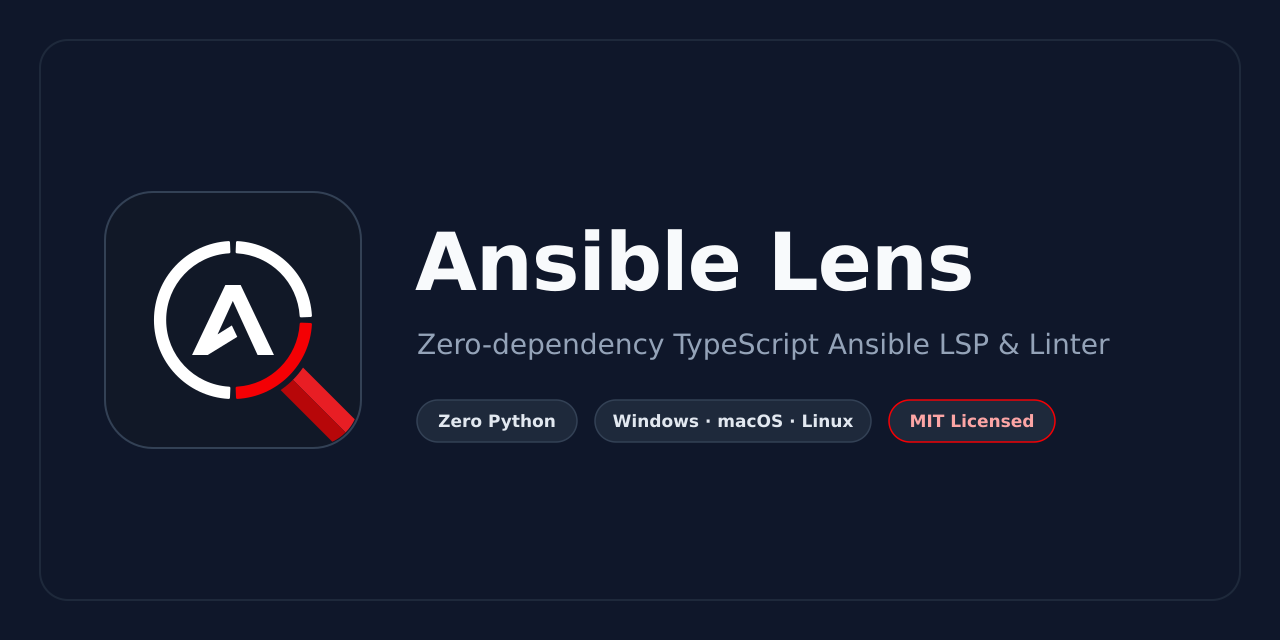
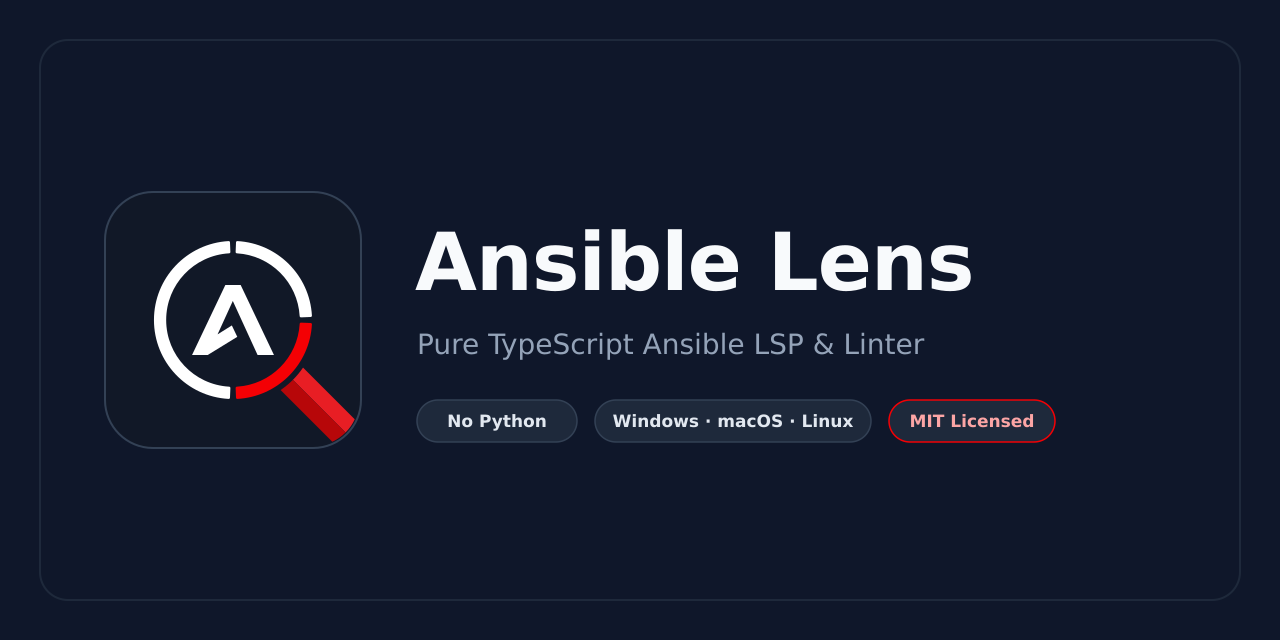
docs(readme): add Open VSX badge and replace 'zero' with 'no' (#61)
* docs(readme): add Open VSX badge

* docs(readme): replace 'zero' with 'no' across docs, manifests, and social preview

Changed region(s): [[0.3125, 0.5, 0.875, 0.5625], [0.3438, 0.625, 0.4375, 0.6875]]

diff --git a/packages/client/test/client.test.ts b/packages/client/test/client.test.ts
@@ -124,7 +124,7 @@ describe('Ansible Lens VS Code Client — Smart Hybrid Activation, Grammar, Logg
     };
 
     expect(pkgJson.description).toBe(
-      'Fast Ansible language server, IntelliSense, and <20ms linter for YAML & Jinja2. Zero Python, WSL, or Docker.',
+      'Fast Ansible language server, IntelliSense, and <20ms linter for YAML & Jinja2. No Python, WSL, or Docker.',
     );
     const readmeText = fs.readFileSync(path.join(CLIENT_ROOT, 'README.md'), 'utf8');
     expect(readmeText).toContain('Ansible® is a registered trademark of Red Hat, Inc.');

diff --git a/README.md b/README.md
@@ -1,16 +1,17 @@
 # Ansible Lens
 
 [![VS Code Marketplace](https://vsmarketplacebadges.dev/version-short/amr-io.ansible-lens.svg?label=VS%20Code%20Marketplace)](https://marketplace.visualstudio.com/items?itemName=amr-io.ansible-lens)
+[![Open VSX](https://img.shields.io/open-vsx/v/amr-io/ansible-lens?label=Open%20VSX)](https://open-vsx.org/extension/amr-io/ansible-lens)
 [![OpenSSF Scorecard](https://api.scorecard.dev/projects/github.com/amr-io/ansible-lens/badge)](https://scorecard.dev/viewer/?uri=github.com/amr-io/ansible-lens)
 [![License: MIT](https://img.shields.io/badge/License-MIT-blue.svg)](./LICENSE)
 
-**Fast Ansible language server, IntelliSense, and <20ms linter for YAML & Jinja2 — zero Python, WSL, or Docker required.**
+**Fast Ansible language server, IntelliSense, and <20ms linter for YAML & Jinja2 — no Python, WSL, or Docker required.**
 
 ---
 
 ## Why Ansible Lens?
 
-Editing Ansible playbooks shouldn't require installing Python virtual environments, WSL2, or Docker containers just to get hover docs, autocomplete, and linting. **Ansible Lens** is a pure TypeScript, zero-dependency Language Server & VS Code extension powered by pre-compiled static collection metadata packs. It works identically out of the box on **Windows, macOS, and Linux** in milliseconds.
+Editing Ansible playbooks shouldn't require installing Python virtual environments, WSL2, or Docker containers just to get hover docs, autocomplete, and linting. **Ansible Lens** is a pure TypeScript Language Server & VS Code extension powered by pre-compiled static collection metadata packs. It works identically out of the box on **Windows, macOS, and Linux** in milliseconds.
 
 ---
 
@@ -29,9 +30,9 @@ Editing Ansible playbooks shouldn't require installing Python virtual environmen
 
 ## Key Features
 
-- **Zero Python, WSL, or Docker:** Runs natively in pure Node.js/TypeScript on Windows, macOS, and Linux. Never spawns `ansible-playbook` or `ansible-lint` subprocesses while you type.
+- **No Python, WSL, or Docker:** Runs natively in pure Node.js/TypeScript on Windows, macOS, and Linux. Never spawns `ansible-playbook` or `ansible-lint` subprocesses while you type.
 - **Instant (<20ms) Fault-Tolerant Linting:** Concrete Syntax Tree (CST) YAML + Jinja2 scanner with 24 clean-room MIT-licensed rules, 1-click Quick-Fixes (`Convert File to FQCN`, Levenshtein *"Did you mean?"*, `var-naming[no-role-prefix]`), and debounced incremental revalidation.
-- **Pylance-Style Hover & `Ctrl+Click` Module Docs:** Rich Markdown hover cards with parameter tables, defaults, `choices`, and return schemas — plus configurable `Ctrl+Click` (`renderedPreview`, `openInBrowser`, or `disabled`) with zero permanent underlines.
+- **Pylance-Style Hover & `Ctrl+Click` Module Docs:** Rich Markdown hover cards with parameter tables, defaults, `choices`, and return schemas — plus configurable `Ctrl+Click` (`renderedPreview`, `openInBrowser`, or `disabled`) with no permanent underlines.
 - **`register:` Return-Value Type Inference (`loop:`-Aware):** Autocompletes registered fields (e.g. `webapp_version_file.stat.exists`, `.rc`, `.stdout`, and `.results[].*` when `loop:` is used) across tasks, multi-line `when:` lists, and `.j2` templates.
 - **22-Level Cross-File Variable Intelligence & `.j2` Templates:** Tracks `defaults/`, `vars/`, `group_vars/`, `host_vars/`, relative `vars_files:` (with `missing-vars-file` validation & cache eviction), `include_vars:`, inventory, `set_fact:`, and `register:`, with scoped completion ranking (`0_` role-local → `1_` shared → `2_` other roles → `3_` magic vars) and smart `{{ | }}` auto-spacing.
 - **Nested Monorepo `ansible.cfg` Discovery & Project Integrity:** Walks upward to locate `ansible.cfg` (`roles_path`, `inventory`), validates missing roles/handlers/templates/`vars_files`, and prefers same-role handlers on `notify:` Go-to-Definition.
@@ -45,14 +46,14 @@ Editing Ansible playbooks shouldn't require installing Python virtual environmen
 | Feature | **Ansible Lens** (`amr-io.ansible-lens`) | **Red Hat Ansible** (`redhat.ansible`) |
 | :--- | :--- | :--- |
 | **Native Windows support (no WSL/Docker)** | **Yes — 100% native** | Requires WSL or Execution Environment container |
-| **Python / `ansible-core` / `ansible-lint` required** | **Zero** | Required for linting & full module docs |
+| **Python / `ansible-core` / `ansible-lint` required** | **No** | Required for linting & full module docs |
 | **Lint latency (300-line playbook)** | **~10.7 ms** (in-process) | ~2,622 ms (Python `ansible-lint` subprocess) |
 | **Smart `redhat.vscode-yaml` coexistence** | **Yes** (auto-detects Ansible vs. K8s/GHA/Compose) | Requires changing language mode to `ansible` |
 | **`register:` return-value autocomplete** | **Yes** (`loop:`-aware & nested `.stat.*`) | Limited |
 | **22-level variable precedence hover** | **Yes** | No |
 | **`.j2` template IntelliSense & `{{ \| }}` auto-space** | **Yes** | Limited |
 | **License** | **MIT** (clean-room TypeScript) | GPL-3.0 (`ansible-lint` / `ansible-core`) |
-| **Telemetry** | **Zero telemetry** | Optional Red Hat telemetry |
+| **Telemetry** | **No telemetry** | Optional Red Hat telemetry |
 
 ---
 
@@ -65,7 +66,7 @@ Measured on GitHub Actions `ubuntu-latest` (4 vCPU AMD EPYC 9V45, 15.6 GB RAM, N
 | **Ansible Lens** (in-process LSP) | Pure TypeScript / Node.js | **10.73 ms** | `9.11, 16.38, 10.73, 11.81, 6.47 ms` |
 | **ansible-lint** (CLI) | Python | **2,622.4 ms** | `3090.0, 2606.4, 2862.1, 2576.5, 2622.4 ms` |
 
-**Result:** **~244× faster** median analysis time with zero Python subprocess overhead.
+**Result:** **~244× faster** median analysis time with no Python subprocess overhead.
 
 ---
 
@@ -79,7 +80,7 @@ Search **`Ansible Lens`** (`amr-io.ansible-lens`) in the VS Code Extensions view
 code --install-extension amr-io.ansible-lens
 ```
 
-Open any Ansible playbook, role, or `.j2` template — Ansible Lens activates automatically with zero configuration.
+Open any Ansible playbook, role, or `.j2` template — Ansible Lens activates automatically with no configuration.
 
 ### Offline / Verifiable `.vsix` Install
 
@@ -103,7 +104,7 @@ Open any Ansible playbook, role, or `.j2` template — Ansible Lens activates au
 
 ## Privacy & Supply-Chain Security
 
-- **Zero Telemetry:** Ansible Lens collects zero analytics, zero crash reports, and makes no outbound network requests other than optional SHA-256-verified collection metadata pack downloads (configurable or disableable via `ansibleLens.metadata.autoDownload`).
+- **No Telemetry:** Ansible Lens collects no analytics, no crash reports, and makes no outbound network requests other than optional SHA-256-verified collection metadata pack downloads (configurable or disableable via `ansibleLens.metadata.autoDownload`).
 - **Verifiable Releases:** Every GitHub Release ships with a CycloneDX SBOM (`sbom.cdx.json`), `SHA256SUMS.txt`, and GitHub SLSA Build Provenance attestation.
 
 ---

diff --git a/packages/client/README.md b/packages/client/README.md
@@ -1,14 +1,15 @@
 # Ansible Lens
 
 [![VS Code Marketplace](https://vsmarketplacebadges.dev/version-short/amr-io.ansible-lens.svg?label=VS%20Code%20Marketplace)](https://marketplace.visualstudio.com/items?itemName=amr-io.ansible-lens)
+[![Open VSX](https://img.shields.io/open-vsx/v/amr-io/ansible-lens?label=Open%20VSX)](https://open-vsx.org/extension/amr-io/ansible-lens)
 [![OpenSSF Scorecard](https://api.scorecard.dev/projects/github.com/amr-io/ansible-lens/badge)](https://scorecard.dev/viewer/?uri=github.com/amr-io/ansible-lens)
 [![License: MIT](https://img.shields.io/badge/License-MIT-blue.svg)](./LICENSE)
 
-**Fast Ansible language server, IntelliSense, and <20ms linter for YAML & Jinja2 — zero Python, WSL, or Docker required.**
+**Fast Ansible language server, IntelliSense, and <20ms linter for YAML & Jinja2 — no Python, WSL, or Docker required.**
 
 ## Why Ansible Lens?
 
-**Ansible Lens** is a pure TypeScript, zero-dependency Ansible Language Server & linter powered by static collection metadata packs. It runs natively on **Windows, macOS, and Linux** with zero Python, zero WSL, and zero Docker.
+**Ansible Lens** is a pure TypeScript Ansible Language Server & linter powered by static collection metadata packs. It runs natively on **Windows, macOS, and Linux** with no Python, WSL, or Docker required.
 
 ## See It in Action
 
@@ -24,7 +25,7 @@
 ## Key Features
 
 - **Sub-20ms Fault-Tolerant Linting:** 24 clean-room MIT-licensed rules with 1-click Quick-Fixes (`Convert File to FQCN`, Levenshtein *"Did you mean?"*, `var-naming[no-role-prefix]`) and debounced incremental revalidation.
-- **Pylance-Style Hover & `Ctrl+Click` Docs:** Rich Markdown hover cards with parameter tables, defaults, `choices`, and return schemas, plus configurable `Ctrl+Click` (`renderedPreview`, `openInBrowser`, `disabled`) with zero permanent underlines.
+- **Pylance-Style Hover & `Ctrl+Click` Docs:** Rich Markdown hover cards with parameter tables, defaults, `choices`, and return schemas, plus configurable `Ctrl+Click` (`renderedPreview`, `openInBrowser`, `disabled`) with no permanent underlines.
 - **`register:` Return-Value Inference (`loop:`-Aware):** Autocompletes registered fields (`.stat.*`, `.rc`, `.stdout`, `.results[].*`) across tasks, multi-line `when:` lists, and `.j2` templates.
 - **22-Level Cross-File Variable Intelligence & `.j2` Templates:** Tracks `defaults/`, `vars/`, `group_vars/`, `host_vars/`, relative `vars_files:` (with `missing-vars-file` validation & cache eviction), `include_vars:`, inventory, `set_fact:`, and `register:`, with scoped completion ranking and smart `{{ | }}` auto-spacing.
 - **Smart Hybrid Activation:** Coexists cleanly with `redhat.vscode-yaml` while ignoring Kubernetes, Docker Compose, and GitHub Actions YAML.
@@ -35,7 +36,7 @@
 | Feature | **Ansible Lens** | **Red Hat Ansible** |
 | :--- | :--- | :--- |
 | **Native Windows (no WSL/Docker)** | **Yes** | Requires WSL or EE container |
-| **Python / `ansible-lint` required** | **Zero** | Required |
+| **Python / `ansible-lint` required** | **No** | Required |
 | **Lint latency (300-line playbook)** | **~10.7 ms** | ~2,622 ms |
 | **`register:` return-value autocomplete** | **Yes** (`loop:`-aware) | Limited |
 | **22-level variable precedence hover** | **Yes** | No |
@@ -68,7 +69,7 @@ For offline or SLSA-verified `.vsix` installs, download the release artifacts fr
 
 ## Privacy
 
-**Zero Telemetry:** Ansible Lens collects zero analytics or crash reports and makes no outbound requests other than optional SHA-256-verified collection metadata pack downloads.
+**No Telemetry:** Ansible Lens collects no analytics or crash reports and makes no outbound requests other than optional SHA-256-verified collection metadata pack downloads.
 
 ## License
 

diff --git a/CONTRIBUTING.md b/CONTRIBUTING.md
@@ -15,7 +15,7 @@ packages/client  ->  packages/server  ->  packages/core
 scripts/metadata-builder  ->  packages/core
 ```
 
-- `packages/core`: Pure TypeScript domain engine (**ZERO `vscode` or `vscode-languageserver*` imports**). All filesystem, network, clock, and cache I/O must be injected via interfaces so core logic remains 100% deterministic offline.
+- `packages/core`: Pure TypeScript domain engine (**NO `vscode` or `vscode-languageserver*` imports**). All filesystem, network, clock, and cache I/O must be injected via interfaces so core logic remains 100% deterministic offline.
 - `packages/server`: LSP server (`vscode-languageserver`) wrapping `@ansible-lens/core`.
 - `packages/client`: Thin VS Code extension client (`Smart Hybrid Activation` + Jinja2 injection grammar).
 - `scripts/metadata-builder`: Build-time metadata pack generator (`ansible-doc --metadata-dump`).
@@ -66,10 +66,10 @@ Keep commits **atomic**: each commit should be focused, buildable, and pass `npm
 ## 3. Code Quality, Coverage & Performance Budgets
 
 - **Strict TypeScript (`tsconfig.base.json`):** `strict: true`, `noUncheckedIndexedAccess: true`, `exactOptionalPropertyTypes: true`, `noImplicitOverride: true`, `noFallthroughCasesInSwitch: true`, `noUnusedLocals: true`, `noUnusedParameters: true`.
-- **Zero `any` & Zero Silent Catches:** ESLint enforces `@typescript-eslint/no-explicit-any: error`, `no-empty: error` (no empty `catch {}`), and `--max-warnings=0`. Do not use `@ts-ignore` or `@ts-expect-error` without an explicit inline justification.
+- **No `any` & No Silent Catches:** ESLint enforces `@typescript-eslint/no-explicit-any: error`, `no-empty: error` (no empty `catch {}`), and `--max-warnings=0`. Do not use `@ts-ignore` or `@ts-expect-error` without an explicit inline justification.
 - **Line Endings:** LF (`\n`) is enforced via `.editorconfig` and `.gitattributes` (`* text=auto eol=lf`).
 - **Test Coverage (`>= 80%`):** `packages/core` must maintain **at least 80% line, branch, function, and statement coverage** under `vitest run --coverage`. Include positive, negative, Windows CRLF path, Unicode, fuzz/resilience, and LSP integration tests where applicable.
-- **Performance Budget (`< 20ms`):** Zero Python, WSL, Docker, or external subprocesses during editing. Parsing and linting a 300-line playbook must complete in **< 20ms** in the automated benchmark suite.
+- **Performance Budget (`< 20ms`):** No Python, WSL, Docker, or external subprocesses during editing. Parsing and linting a 300-line playbook must complete in **< 20ms** in the automated benchmark suite.
 
 ---
 
@@ -89,7 +89,7 @@ Ansible Lens is licensed under the **MIT License**.
 Every PR must use `.github/PULL_REQUEST_TEMPLATE.md`, link a GitHub Issue (`Closes #N`), include local verification output, and pass all CI checks:
 
 - [ ] Conventional Commits (`<type>(<scope>): <subject>`) verified by `commitlint`
-- [ ] Unidirectional architecture respected (`client -> server -> core`, zero `vscode` imports in `packages/core`)
-- [ ] `npm run build && npm run typecheck && npm run lint && npm run format:check` pass with zero errors/warnings
+- [ ] Unidirectional architecture respected (`client -> server -> core`, no `vscode` imports in `packages/core`)
+- [ ] `npm run build && npm run typecheck && npm run lint && npm run format:check` pass with no errors/warnings
 - [ ] `npm test` passes with `>= 80%` coverage on `packages/core` and `< 20ms` playbook parse+lint benchmark
 - [ ] 100% MIT clean-room compliance verified

diff --git a/CHANGELOG.md b/CHANGELOG.md
@@ -17,7 +17,7 @@ The format follows [Keep a Changelog](https://keepachangelog.com/en/1.1.0/), and
 ### Changed
 
 - **Publisher & Branding:** Moved repository and Marketplace publisher to `amr-io`, refreshed the extension icon with a crisp 512×512 vector render, and polished the VS Code Settings, Features, and Changelog tabs.
-- **README Overhaul:** Rewrote the README with a side-by-side comparison against `redhat.ansible`, verified benchmark numbers (~10.7 ms vs. ~2,622 ms `ansible-lint`), and a Zero Telemetry commitment.
+- **README Overhaul:** Rewrote the README with a side-by-side comparison against `redhat.ansible`, verified benchmark numbers (~10.7 ms vs. ~2,622 ms `ansible-lint`), and a No Telemetry commitment.
 
 ### Fixed
 
@@ -35,7 +35,7 @@ The format follows [Keep a Changelog](https://keepachangelog.com/en/1.1.0/), and
 - **`.j2` Template Intelligence & `vars_files:` Traversal:** Added completions, 22-level variable precedence hover, Go-to-Definition, and linting inside `*.j2` templates, following relative `vars_files:` and `include_vars:` paths. Added `missing-vars-file` validation and live eviction when `vars_files:` entries change.
 - **Smart `{{ | }}` Auto-Space:** Pressing `Space` inside `{{|}}` pads to `{{ | }}` with the cursor centered, and pressing `Backspace` collapses empty `{{ | }}` back to `{{|}}` (`ansibleLens.jinja.autoSpaceBraces`).
 - **Silent Collection Auto-Download:** Automatically downloads metadata for 90+ Ansible community collections in the background with SHA-256 verification and a status-bar indicator.
-- **Configurable `Ctrl+Click` Module Docs & Zero Permanent Underlines:** Removed permanent link underlines and added `ansibleLens.docs.ctrlClickBehavior` (`renderedPreview`, `openInBrowser`, `disabled`).
+- **Configurable `Ctrl+Click` Module Docs & No Permanent Underlines:** Removed permanent link underlines and added `ansibleLens.docs.ctrlClickBehavior` (`renderedPreview`, `openInBrowser`, `disabled`).
 - **Settings, Diagnostics Command & Docs:** Exposed live `ansibleLens.lint.*`, `ansibleLens.metadata.*`, and `ansibleLens.ansible.rootPaths` settings, added `Ansible Lens: Copy Diagnostics Info`, and added `docs/rules.md`, `docs/configuration.md`, and `docs/troubleshooting.md`.
 
 ### Changed
@@ -54,7 +54,7 @@ The format follows [Keep a Changelog](https://keepachangelog.com/en/1.1.0/), and
 
 ### Added
 
-- Initial MIT-licensed release of **Ansible Lens** — a zero-dependency TypeScript Ansible Language Server and VS Code extension requiring no Python, WSL, or Docker.
+- Initial MIT-licensed release of **Ansible Lens** — a pure TypeScript Ansible Language Server and VS Code extension requiring no Python, WSL, or Docker.
 - Fault-tolerant YAML and Jinja2 parser with sub-20ms linting and 1-click Quick-Fixes (including `Convert File to FQCN`).
 - Offline-bundled `ansible.builtin` metadata, lazy-loaded collection packs with SHA-256 verification, and static `.py` module docstring extraction.
 - `register:` return-value type inference (`loop:`-aware), 22-level cross-file variable precedence hover, and workspace project integrity checks.

diff --git a/packages/client/CHANGELOG.md b/packages/client/CHANGELOG.md
@@ -17,7 +17,7 @@ The format follows [Keep a Changelog](https://keepachangelog.com/en/1.1.0/), and
 ### Changed
 
 - **Publisher & Branding:** Moved repository and Marketplace publisher to `amr-io`, refreshed the extension icon with a crisp 512×512 vector render, and polished the VS Code Settings, Features, and Changelog tabs.
-- **README Overhaul:** Rewrote the README with a side-by-side comparison against `redhat.ansible`, verified benchmark numbers (~10.7 ms vs. ~2,622 ms `ansible-lint`), and a Zero Telemetry commitment.
+- **README Overhaul:** Rewrote the README with a side-by-side comparison against `redhat.ansible`, verified benchmark numbers (~10.7 ms vs. ~2,622 ms `ansible-lint`), and a No Telemetry commitment.
 
 ### Fixed
 
@@ -35,7 +35,7 @@ The format follows [Keep a Changelog](https://keepachangelog.com/en/1.1.0/), and
 - **`.j2` Template Intelligence & `vars_files:` Traversal:** Added completions, 22-level variable precedence hover, Go-to-Definition, and linting inside `*.j2` templates, following relative `vars_files:` and `include_vars:` paths. Added `missing-vars-file` validation and live eviction when `vars_files:` entries change.
 - **Smart `{{ | }}` Auto-Space:** Pressing `Space` inside `{{|}}` pads to `{{ | }}` with the cursor centered, and pressing `Backspace` collapses empty `{{ | }}` back to `{{|}}` (`ansibleLens.jinja.autoSpaceBraces`).
 - **Silent Collection Auto-Download:** Automatically downloads metadata for 90+ Ansible community collections in the background with SHA-256 verification and a status-bar indicator.
-- **Configurable `Ctrl+Click` Module Docs & Zero Permanent Underlines:** Removed permanent link underlines and added `ansibleLens.docs.ctrlClickBehavior` (`renderedPreview`, `openInBrowser`, `disabled`).
+- **Configurable `Ctrl+Click` Module Docs & No Permanent Underlines:** Removed permanent link underlines and added `ansibleLens.docs.ctrlClickBehavior` (`renderedPreview`, `openInBrowser`, `disabled`).
 - **Settings, Diagnostics Command & Docs:** Exposed live `ansibleLens.lint.*`, `ansibleLens.metadata.*`, and `ansibleLens.ansible.rootPaths` settings, added `Ansible Lens: Copy Diagnostics Info`, and added `docs/rules.md`, `docs/configuration.md`, and `docs/troubleshooting.md`.
 
 ### Changed
@@ -54,7 +54,7 @@ The format follows [Keep a Changelog](https://keepachangelog.com/en/1.1.0/), and
 
 ### Added
 
-- Initial MIT-licensed release of **Ansible Lens** — a zero-dependency TypeScript Ansible Language Server and VS Code extension requiring no Python, WSL, or Docker.
+- Initial MIT-licensed release of **Ansible Lens** — a pure TypeScript Ansible Language Server and VS Code extension requiring no Python, WSL, or Docker.
 - Fault-tolerant YAML and Jinja2 parser with sub-20ms linting and 1-click Quick-Fixes (including `Convert File to FQCN`).
 - Offline-bundled `ansible.builtin` metadata, lazy-loaded collection packs with SHA-256 verification, and static `.py` module docstring extraction.
 - `register:` return-value type inference (`loop:`-aware), 22-level cross-file variable precedence hover, and workspace project integrity checks.

diff --git a/ARCHITECTURE.md b/ARCHITECTURE.md
@@ -4,14 +4,14 @@
 
 ## 1. Architectural Vision
 
-**Ansible Lens** (`ansible-lens`) is a zero-dependency, cross-platform, static-metadata Ansible Language Server & VS Code Extension written in pure TypeScript. Unlike traditional Ansible extensions that rely on a local Python runtime, `ansible-core`, `ansible-lint`, WSL, or Docker containers, Ansible Lens runs natively on Windows, macOS, and Linux in pure Node.js/TypeScript with **< 20ms** parse + lint latency.
+**Ansible Lens** (`ansible-lens`) is a standalone, cross-platform, static-metadata Ansible Language Server & VS Code Extension written in pure TypeScript. Unlike traditional Ansible extensions that rely on a local Python runtime, `ansible-core`, `ansible-lint`, WSL, or Docker containers, Ansible Lens runs natively on Windows, macOS, and Linux in pure Node.js/TypeScript with **< 20ms** parse + lint latency.
 
 ## 2. Monorepo Structure & Unidirectional Dependency Flow
 
 ```
 ansible-lens/
 ├── packages/
-│   ├── core/                 # Pure TypeScript domain engine (ZERO vscode imports)
+│   ├── core/                 # Pure TypeScript domain engine (NO vscode imports)
 │   │   └── src/
 │   │       ├── contracts/    # Shared domain types, AST nodes, metadata & lint schemas
 │   │       ├── parser/       # Fault-tolerant YAML CST + Jinja2 tokenizer & AST mapper
@@ -47,7 +47,7 @@ ansible-lens/
 - **Project Integrity Checker:** Validates role references, `tasks/main.yml` presence, `notify:` handler targets, `template`/`copy` `src:` file existence, and `hosts:` targets against inventory.
 
 ### 3.4 Clean-Room Static Linter (`packages/core/src/linter`)
-- 100% MIT clean-room implementation (zero GPL code).
+- 100% MIT clean-room implementation (no GPL code).
 - Rules: `unknown-module` (with Levenshtein "Did you mean?" Quick-Fix), `unknown-param`, `missing-required-param`, `invalid-choice`, `param-type-mismatch`, `fqcn` (with 1-click FQCN expansion Quick-Fix), `name-missing`, `no-changed-when`, `command-instead-of-module`, `package-latest`, `risky-file-permissions`, `deprecated-module`, `hardcoded-secret` (with `!vault` / `no_log: true` Quick-Fix), `yaml-truthy`, and `duplicate-keys`.
 
 ### 3.5 Smart Hybrid Activation (`packages/client`)

diff --git a/docs/configuration.md b/docs/configuration.md
@@ -16,7 +16,7 @@ All **Ansible Lens** settings live under the `ansibleLens.*` namespace in VS Cod
 | `ansibleLens.metadata.manifestUrl`     | `string`                                                  | `"https://github.com/amr-io/ansible-lens/releases/download/metadata-latest/manifest.json"` | Remote or internal mirror URL for `manifest.json` and `.json.gz` collection metadata packs.                                                                                  |
 | `ansibleLens.jinja.autoSpaceBraces`    | `boolean`                                                 | `true`                                                                                       | Automatically pad `{{                                                                                                                                                        | }}`to`{{ | }}`on`Space`(keeping the cursor centered) and collapse empty`{{ | }}`back to`{{ | }}`on`Backspace`. |
 | `ansibleLens.ansible.rootPaths`       | `string[]`                                                | `[]`                                                                                         | Explicit Ansible project root directories (relative to workspace root or absolute) for monorepos without an `ansible.cfg`.                                                                                     |
-| `ansibleLens.docs.ctrlClickBehavior`  | `"renderedPreview" \| "openInBrowser" \| "disabled"`      | `"renderedPreview"`                                                                          | Controls `Ctrl+Click` (Go to Definition) on module names (with zero permanent underlines): `"renderedPreview"` opens rendered Markdown in VS Code, `"openInBrowser"` opens `docs.ansible.com`, `"disabled"` does nothing. |
+| `ansibleLens.docs.ctrlClickBehavior`  | `"renderedPreview" \| "openInBrowser" \| "disabled"`      | `"renderedPreview"`                                                                          | Controls `Ctrl+Click` (Go to Definition) on module names (with no permanent underlines): `"renderedPreview"` opens rendered Markdown in VS Code, `"openInBrowser"` opens `docs.ansible.com`, `"disabled"` does nothing. |
 
 ---
 

diff --git a/docs/troubleshooting.md b/docs/troubleshooting.md
@@ -48,7 +48,7 @@ Ansible Lens is specifically engineered to **coexist cleanly** with `redhat.vsco
 If you have `redhat.ansible` installed alongside **Ansible Lens**:
 
 - Both extensions attach Language Servers to Ansible files, which can produce duplicate hover tooltips and require Python/WSL from `redhat.ansible`.
-- **Recommendation:** Disable `redhat.ansible` for the workspace (_Extensions > Ansible > Disable (Workspace)_) and keep files in standard `yaml` (or `ansible`) mode so **Ansible Lens** provides zero-dependency, sub-20ms completions, `Ctrl+Click` module docs, and linting natively on Windows, macOS, and Linux.
+- **Recommendation:** Disable `redhat.ansible` for the workspace (_Extensions > Ansible > Disable (Workspace)_) and keep files in standard `yaml` (or `ansible`) mode so **Ansible Lens** provides standalone, sub-20ms completions, `Ctrl+Click` module docs, and linting natively on Windows, macOS, and Linux.
 
 ---
 
@@ -56,7 +56,7 @@ If you have `redhat.ansible` installed alongside **Ansible Lens**:
 
 ### How Collection Metadata Works
 
-- **Bundled Offline Pack:** `ansible.builtin` (`ansible.builtin.json.gz`) is bundled inside the `.vsix` and works 100% offline with zero network calls.
+- **Bundled Offline Pack:** `ansible.builtin` (`ansible.builtin.json.gz`) is bundled inside the `.vsix` and works 100% offline with no network calls.
 - **90+ Community Collection Packs:** The `metadata-latest` GitHub Release publishes 90+ `.json.gz` collection packs (`community.general`, `ansible.posix`, `community.docker`, `community.crypto`, `amazon.aws`, `kubernetes.core`, etc.) plus a SHA-256 `manifest.json`.
 - **Silent Auto-Download:** When `ansibleLens.metadata.autoDownload` is `true` (default), encountering a task like `ansible.posix.sysctl:` automatically downloads and SHA-256-verifies `ansible.posix.json.gz` into `~/.cache/ansible-lens/metadata/` and refreshes diagnostics in place.
 

diff --git a/docs/rules.md b/docs/rules.md
@@ -1,6 +1,6 @@
 # Ansible Lens — Clean-Room Lint & Project Integrity Rules Reference
 
-All 24 rules in **Ansible Lens** are implemented clean-room in pure TypeScript under the **MIT License** (zero Python, zero `ansible-lint`, zero GPL code). Every rule runs in memory in under 20ms and supports per-rule severity overrides via `ansibleLens.lint.rules`.
+All 24 rules in **Ansible Lens** are implemented clean-room in pure TypeScript under the **MIT License** (no Python, no `ansible-lint`, no GPL code). Every rule runs in memory in under 20ms and supports per-rule severity overrides via `ansibleLens.lint.rules`.
 
 ---
 
@@ -314,7 +314,7 @@ Detects plaintext credentials assigned to secret-like keys (`password`, `passwd`
 
 Flags Jinja2 variables in playbooks, tasks, and `.j2` templates that are not defined anywhere in the 22-level workspace variable graph (`defaults/`, `vars/`, `group_vars/`, `host_vars/`, `vars_files:`, `include_vars:`, inventory, play/block/task `vars:`, `set_fact:`, `register:`).
 
-**Smart Zero-Noise Exclusions:**
+**Smart Noise Exclusions:**
 
 - `item`, `ansible_loop`, and custom `loop_control.loop_var` identifiers
 - Ansible magic variables (`hostvars`, `groups`, `group_names`, `inventory_hostname`, `playbook_dir`, `role_path`, `omit`, etc.) and `ansible_*` facts

diff --git a/SECURITY.md b/SECURITY.md
@@ -8,7 +8,7 @@
 
 ## Security Architecture Guarantees
 
-1. **Zero Untrusted Code Execution:** Ansible Lens parses YAML, Jinja2, and Python module `DOCUMENTATION`/`RETURN` docstrings statically. It never calls `eval()`, never executes workspace Python scripts, and never invokes untrusted binaries.
+1. **No Untrusted Code Execution:** Ansible Lens parses YAML, Jinja2, and Python module `DOCUMENTATION`/`RETURN` docstrings statically. It never calls `eval()`, never executes workspace Python scripts, and never invokes untrusted binaries.
 2. **Cryptographic Verification of Metadata Packs:** Every lazy-downloaded collection metadata pack (`.json.gz`) is verified against its expected SHA-256 digest in `manifest.json` before decompression and schema validation.
 3. **Supply-Chain Hardening:** All GitHub Actions are pinned to immutable 40-character commit SHAs with least-privilege `permissions:` blocks, CodeQL static analysis, and automated Dependabot updates.
 

diff --git a/.github/PULL_REQUEST_TEMPLATE.md b/.github/PULL_REQUEST_TEMPLATE.md
@@ -7,11 +7,11 @@ Closes #
 ## Architectural & Engineering Checklist
 
 - [ ] Follows **Conventional Commits 1.0.0** (`<type>(<scope>): <subject>`)
-- [ ] Respects unidirectional dependency flow (`client -> server -> core`, zero `vscode` imports in `packages/core`)
-- [ ] Zero `any`, zero silent `catch {}`, strict TypeScript (`npm run typecheck` exits 0)
+- [ ] Respects unidirectional dependency flow (`client -> server -> core`, no `vscode` imports in `packages/core`)
+- [ ] No `any`, no silent `catch {}`, strict TypeScript (`npm run typecheck` exits 0)
 - [ ] Flat ESLint passes with `--max-warnings=0` (`npm run lint` exits 0)
 - [ ] Unit, resilience/fuzz, performance (`< 20ms`), and/or integration tests added (`npm test` passes with >= 80% coverage on `packages/core`)
-- [ ] 100% MIT license purity (zero GPL-derived code)
+- [ ] 100% MIT license purity (no GPL-derived code)
 
 ## Verification Output
 
